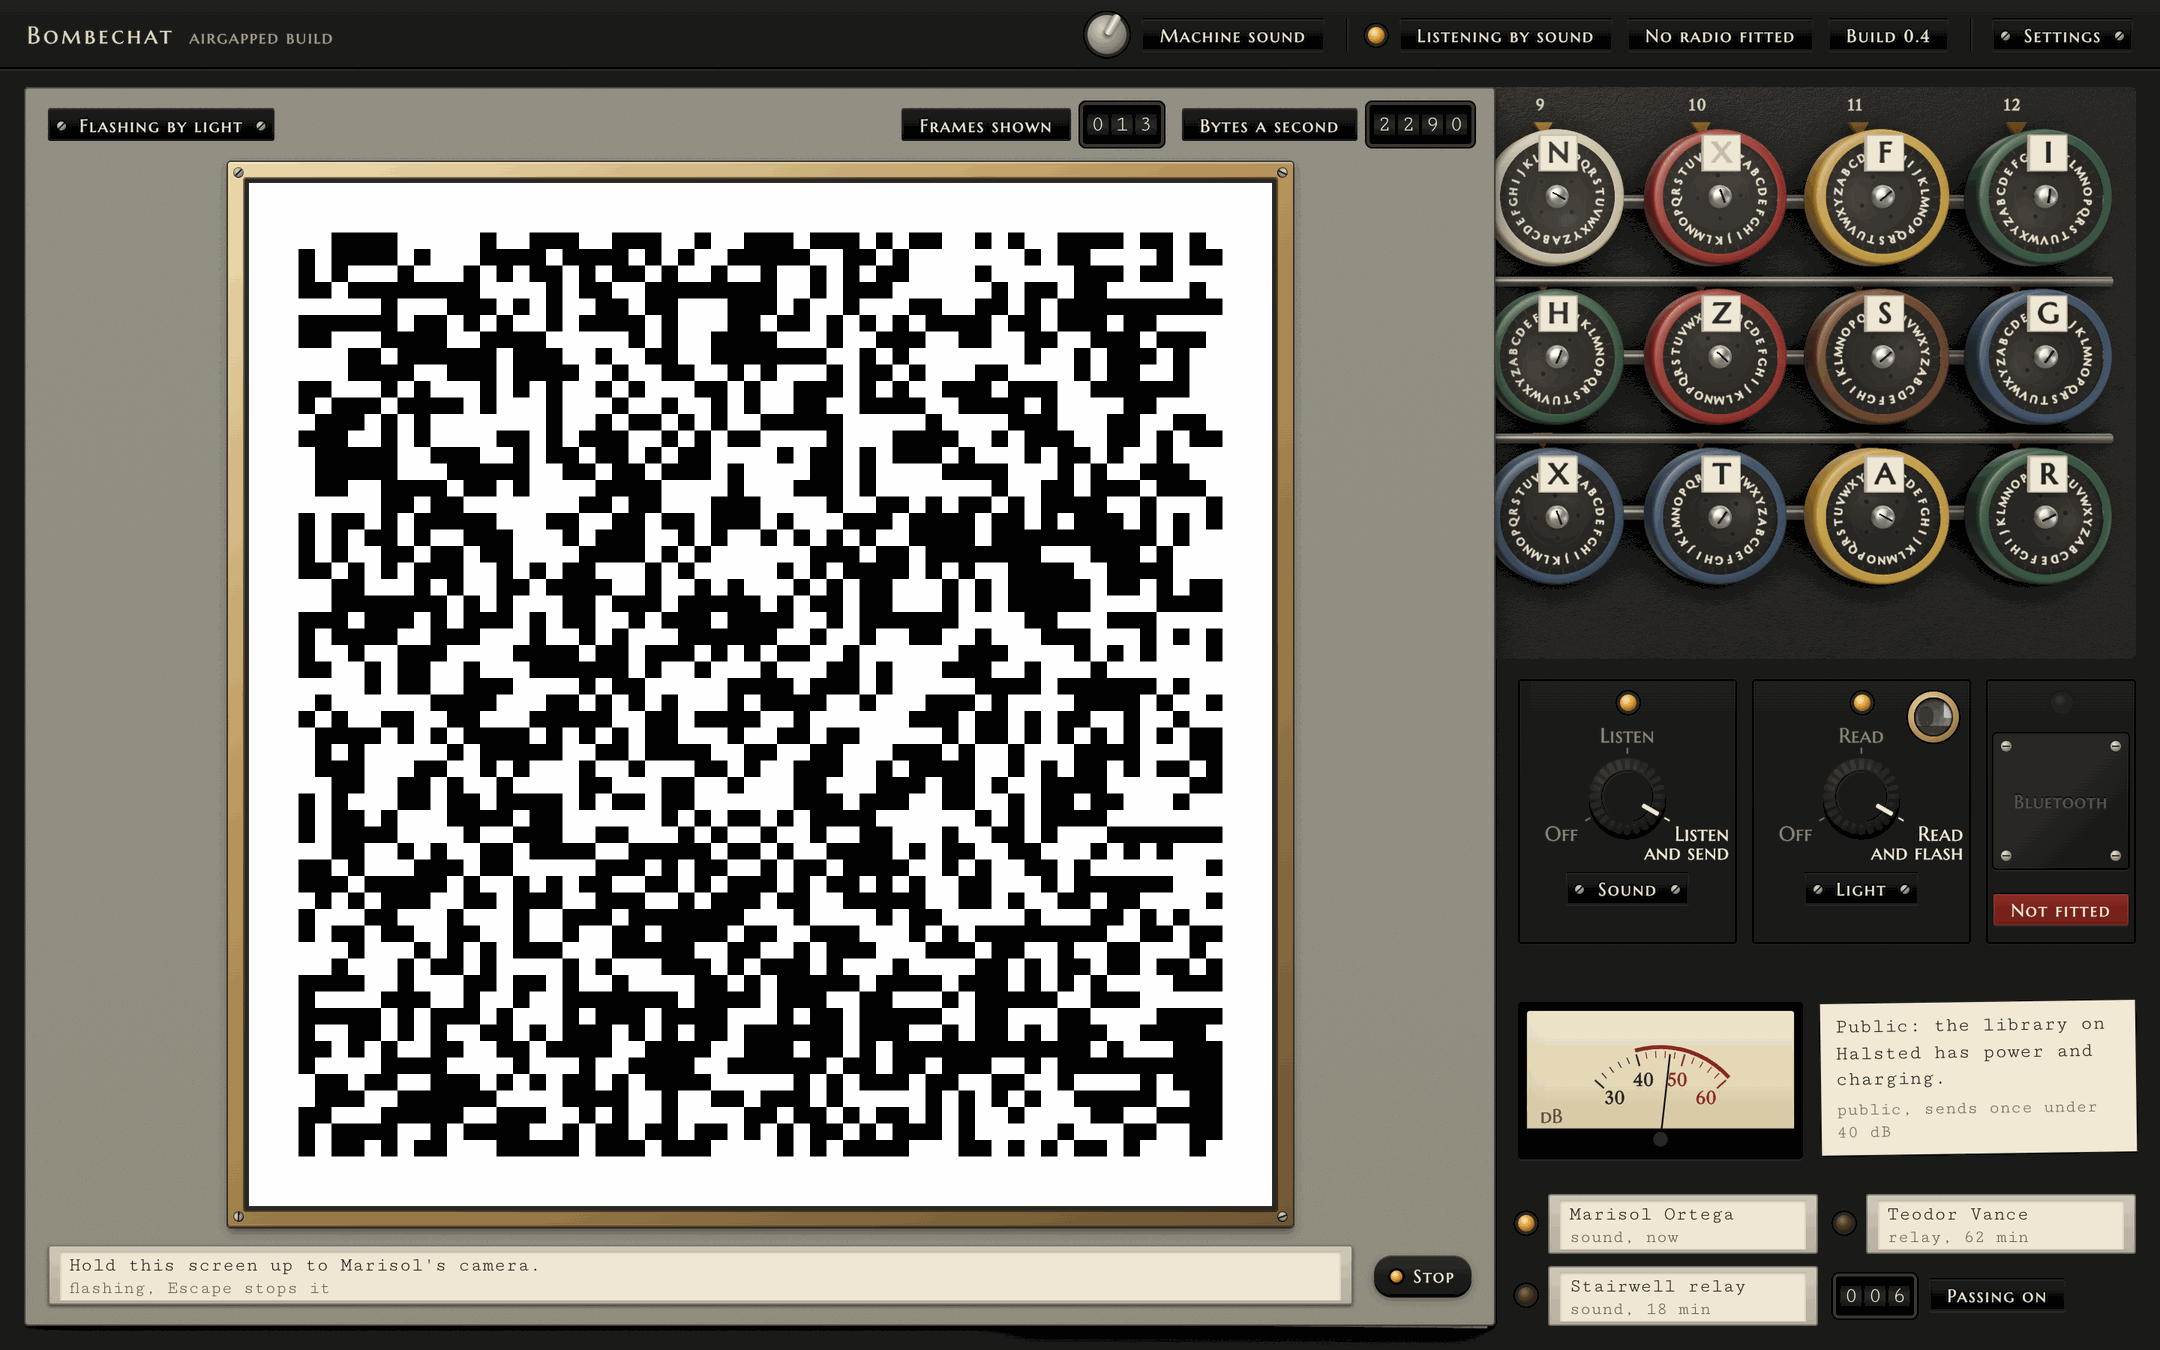
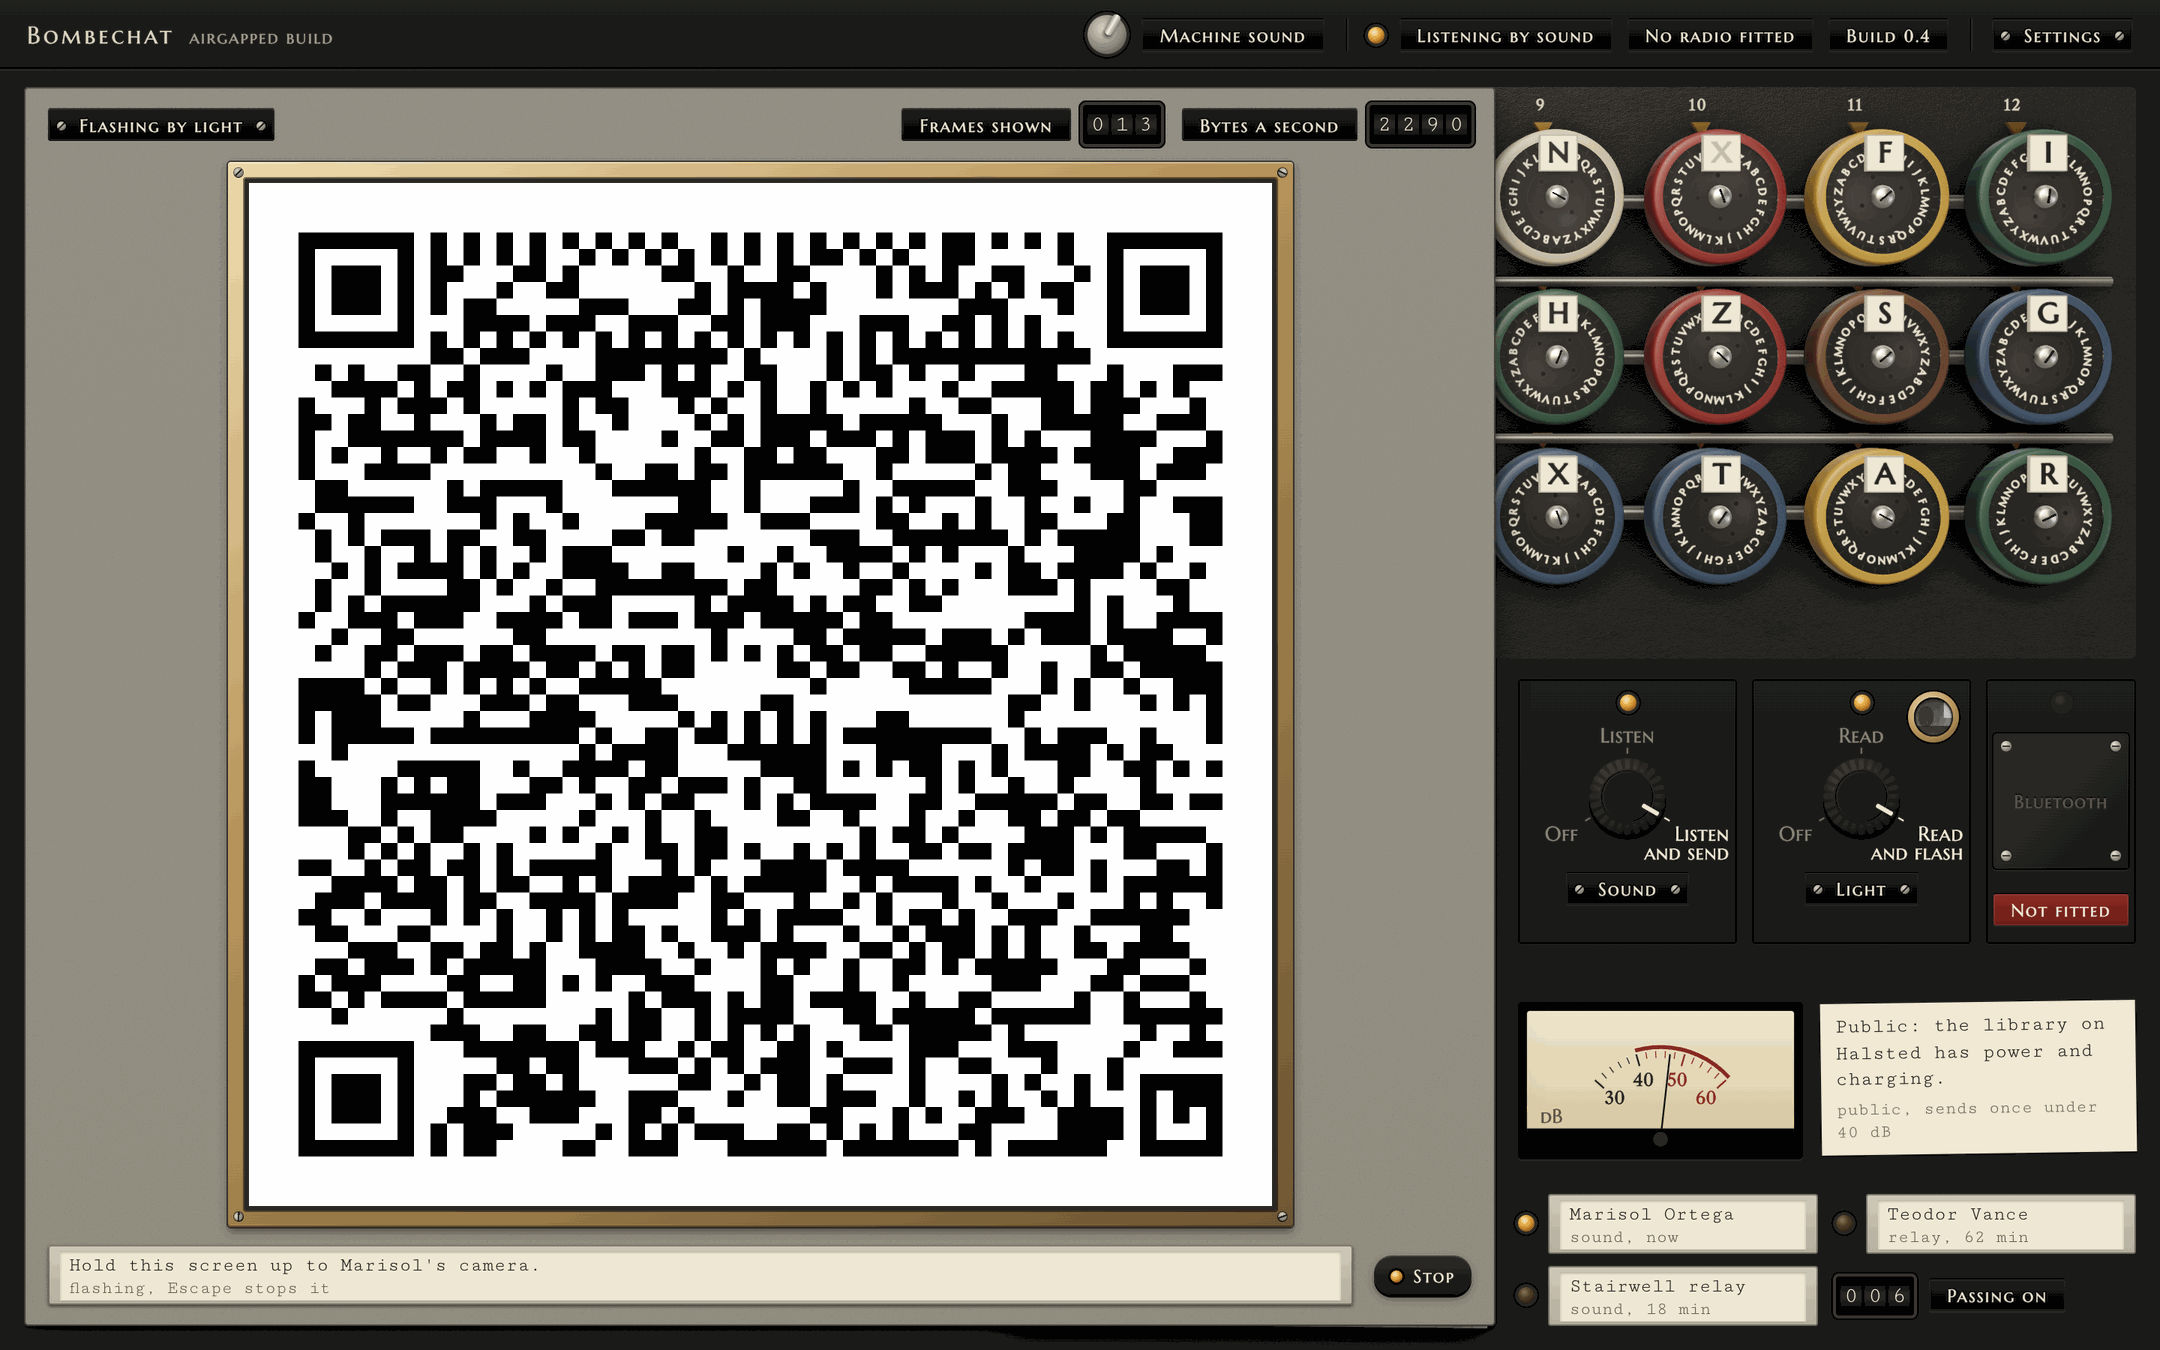
media: the light still and clip show real codes
tools/media.cjs light takes the core's own frames from the page_frames
example, as tools/check.cjs does, and hands them to the simulator, which
shows them in place of its synthetic bits when a page has been given
them. The lamp now shows finders, the orientation mark and the quiet
zone, still at ten frames a second. Frames 70, 90 and 110 of the GIF,
scaled up, and the still each decode with page_frames read to exactly
the frame drawn (code frames 26, 36, 46 and 12).

Changed region(s): [[0.1241, 0.1556, 0.5894, 0.8711]]

diff --git a/app/ui/simulator.js b/app/ui/simulator.js
@@ -25,7 +25,8 @@
 // change, which setSetting refuses with the device's sentence.
 //
 // Light: a send or notice by light at Read and flash is shown as the node shows one: display frames at the Flash
-// speed's rate (synthetic bits, the size of that preset's grid) for at least four seconds after the page's still
+// speed's rate (synthetic bits, the size of that preset's grid, or the core's own frames when a page has been handed
+// them as window.__lightFrames, [preset] -> [bits], as tools/media.cjs does) for at least four seconds after the page's still
 // moment, then displayStopped, then sent. At Read or Off it is refused as the node refuses it. Turning Light down mid-flash clears the screen and the
 // send waits; turning it back to Read and flash carries on.
 //
@@ -209,7 +210,11 @@ export function createSimulator(emit, { query = new URLSearchParams() } = {}) {
     const i = flashes.indexOf(h); if (i >= 0) flashes.splice(i, 1);
     if (flashing === h) { flashing = null; if (h.lit) cleared(h.tag); }
   }
-  const frameBits = (spec, tag, index) => { const r = seeded((tag << 12) ^ index ^ (spec << 28)); return Array.from({ length: Math.ceil(LIGHT_CELLS[spec] ** 2 / 8) }, r); };
+  const frameBits = (spec, tag, index) => {
+    const real = typeof window !== 'undefined' && window.__lightFrames && window.__lightFrames[spec];
+    if (real && real.length) return real[index % real.length];
+    const r = seeded((tag << 12) ^ index ^ (spec << 28)); return Array.from({ length: Math.ceil(LIGHT_CELLS[spec] ** 2 / 8) }, r);
+  };
   function flashTick() {
     if (!flashing) { flashing = flashes.shift() || null; if (flashing) { flashing.spec = settings.flash; if (!flashing.hello) flashing.window = lightWindow(flashing.spec); } }
     const f = flashing;
